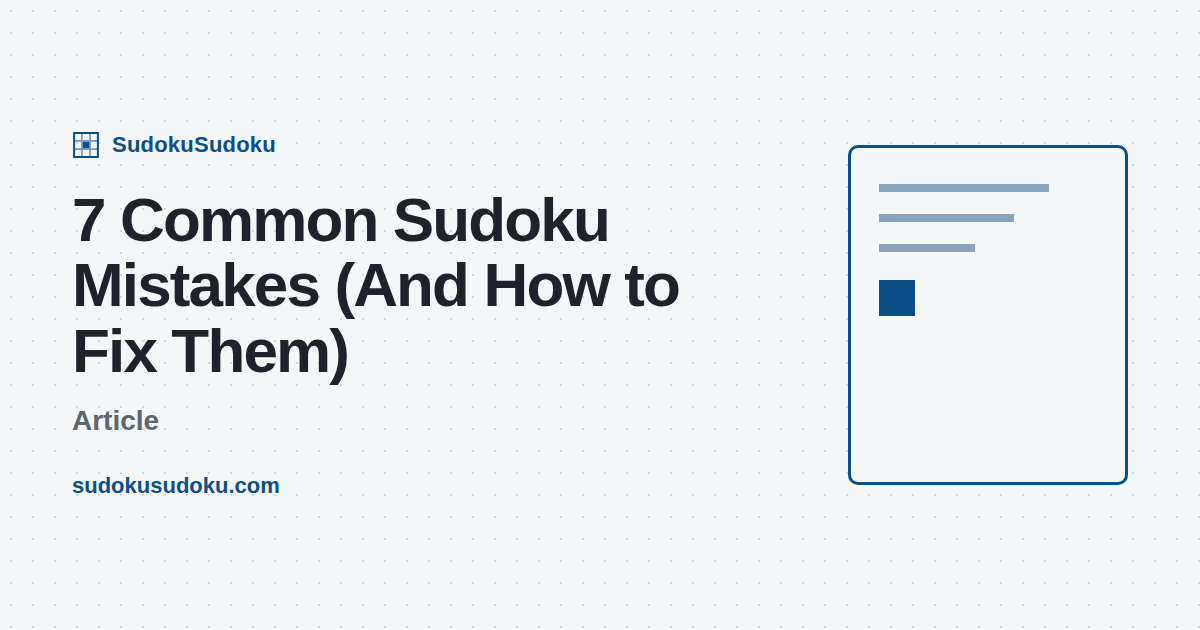
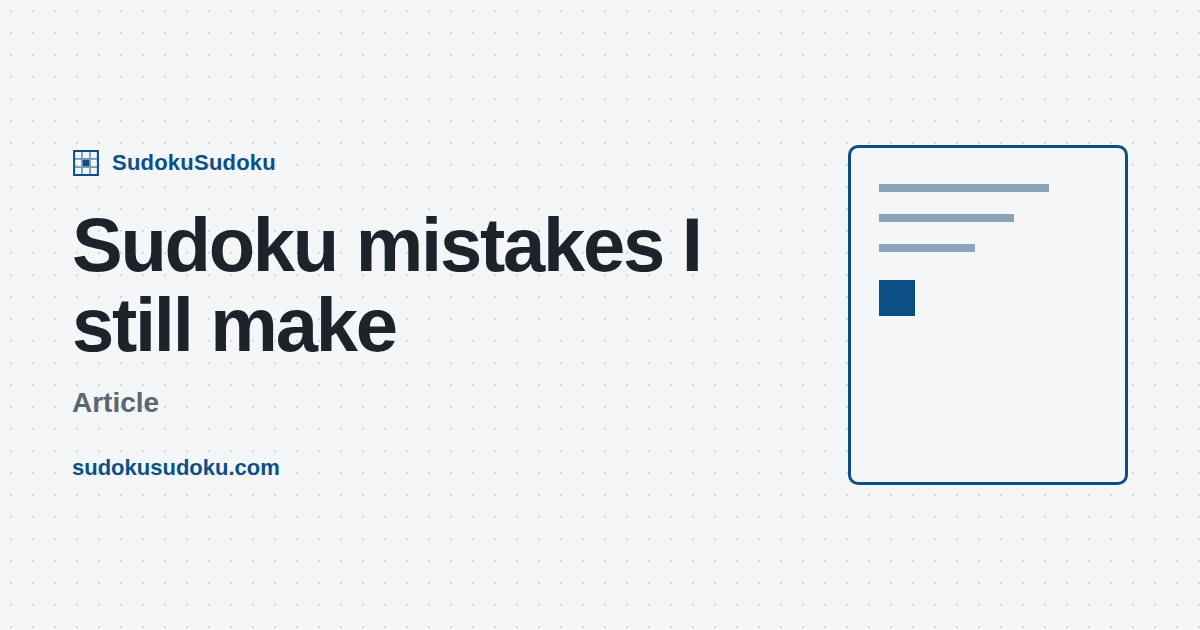
Check the rewritten guides against the solver and the share card.
The example boards stay unique 38-clue singles, the prose stays past
1,200 words, and the mistakes share image uses the new title.

Changed region(s): [[0.0617, 0.2111, 0.5858, 0.6937], [0.0617, 0.7238, 0.2467, 0.7841]]

diff --git a/articles/02-common-mistakes.md b/articles/02-common-mistakes.md
@@ -8,7 +8,7 @@
 
 ![A digit checked against its row, column, and box.](/articles/images/mistakes-three-checks.svg "640x360")
 
-Last week I had a grid that went dead. Nothing left fit. I sat there blaming the puzzle, then found a 6 I had placed about twenty moves earlier. The 6 was never legal. I had checked the row and the column and felt done. The box already had a 6. I would like to say I only did this as a beginner. I did it this week.
+I still get a grid that goes dead. Nothing left fits. I sit there blaming the puzzle, then find a 6 I placed about twenty moves earlier. The 6 was never legal. I had checked the row and the column and felt done. The box already had a 6. I would like to say I only did this as a beginner. I still do it.
 
 These are the ones I actually hit. Each of them makes a later cell look impossible, and the later cell is usually fine.
 
@@ -66,7 +66,7 @@ On paper I do both extremes. Some days every empty cell wears six tiny digits an
 
 The N key toggles notes. In that mode, keys 1 through 9 add or remove a candidate in the selected cell. Auto Candidate Mode, under the pad, fills every empty cell from the rules. It is off until you turn it on. Those notes are computed, so they follow the board. They cannot go stale on their own. Handwritten notes can, and a wrong placement makes a special mess of them.
 
-Here is the part I had to learn on this site, not on paper. When you place a digit, the game removes it from your notes in that row, column, and box. It does this even when the digit is wrong. The notes are now consistent with a bad board. A candidate that was legal is gone, because the wrong digit "used it up." If you keep solving from those notes, they will argue for the mistake.
+Here is the part that bit me on this site. When you place a digit, the game removes it from your notes in that row, column, and box. It does this even when the digit is wrong. The notes are now consistent with a bad board. A candidate that was legal is gone, because the wrong digit "used it up." If you keep solving from those notes, they will argue for the mistake.
 
 Erase is not the repair. Erase clears the cell. The mistake count stays, and the notes that were stripped stay stripped. Undo puts the entry back, puts the notes back, and rolls the mistake count back with that entry. If you erased first, one Undo restores the wrong digit. Undo again to take the placement itself off. I lost a puzzle by erasing, nodding at the clean cell, and trusting notes that still believed the error.
 
@@ -76,9 +76,9 @@ If Check guesses as you go is on, a wrong entry also counts. That setting is on 
 
 A guess is a digit you place in a cell that still has two or more legal candidates, because you are tired of looking.
 
-On the board above, row 2, column 1 can be 5 or 6. Both are legal on the starting grid. The solution is 5. A 6 in that cell is not a box error. Nothing in the row, the column, or the box has a 6 yet... wait. Row 1, column 6 is a 6, but that is a different box, and column 1 is not column 6, and row 2 is not row 1. So 6 really is a candidate. Place it and the puzzle no longer has a solution. You will not feel that at the cell. You will feel it later, when some other cell has nowhere to go.
+On the board above, row 2, column 1 can be 5 or 6. Both fit that row, that column, and that box on the starting grid. The 6 at row 1, column 6 is a different box, so it does not block this cell. The solution is 5. Place a 6 and the puzzle no longer has a solution. You will not feel that at the cell. You will feel it later, when some other cell has nowhere to go.
 
-That is the annoying shape. The guess was locally legal. The digits after it can all be legal given the guess. The contradiction is downstream. Unwinding twenty placements by hand is how I used to spend a coffee. Undo is faster, if I notice before I have stacked a lot of them.
+That is the annoying shape. The guess was legal where you put it. The digits after it can all be legal given the guess. The contradiction is downstream. Unwinding twenty placements by hand is a bad afternoon. Undo is faster, if I notice before I have stacked a lot of them.
 
 Before I guess, I want a pass that could have found a single. One digit at a time, 1 through 9. For each digit, every row, every column, every box. A [hidden single](/techniques/hidden-single/) is a digit with one home in a house, even when that cell still shows another candidate. Naked singles are the cells with one candidate left. If either one exists, the guess can wait. [Practice a hidden single](/?practice=hidden-single) if that pass is the part that slips.
 

diff --git a/articles/01-beginners-guide.md b/articles/01-beginners-guide.md
@@ -20,7 +20,7 @@ On a normal board there are nine rows, nine columns, and nine 3×3 boxes. Each o
 
 That is the whole rule. A digit can go in an empty cell only when its row, its column, and its box do not already contain it. A finished puzzle on this site has one solution, so if more than one digit still fits, you are not done looking.
 
-The filled cells at the start are givens. You do not change a given. Everything you write has to live with those, and with every digit you have already placed. Rows and columns on this page are counted from 1 at the top left. The top-left box is the first box. The top-middle box is the next one. They run left to right, then down.
+The filled cells at the start are givens. You do not change a given. Everything you write has to live with those, and with every digit you have already placed. The top-left box is the first box. The top-middle box is the next one. They run left to right, then down.
 
 A cell "sees" the other cells in its row, its column, and its box. If any of those already holds a 5, this cell cannot be 5. That is the check. I say it in my head when I am tired. Row, column, box. I have lost more Easies to a skipped box than I want to put in a byline.
 
@@ -128,7 +128,7 @@ You do not need those pages to finish the puzzle above. You do need to stop gues
 
 Undo puts the last entry back, notes included. Erase only clears the cell you are on. If Check guesses as you go is on, and it is on by default, a wrong entry counts toward a limit of 4. Four of them and the puzzle stops. Undo rolls that count back with the entry. Erase does not. You can turn the check off in settings. Then there is no limit, and a wrong digit just sits there until the grid breaks. I leave the check on. I would rather know at the cell.
 
-The daily is a Not Easy, not an Easy. The seed is the UTC date, so everyone gets the same grid that day. If you want the kind of board this article just walked, [play an Easy](/?difficulty=easy).
+The daily is a Not Easy. The seed is the UTC date, so everyone gets the same grid that day. If you want the kind of board this article just walked, [play an Easy](/?difficulty=easy).
 
 ## Where to go next
 
